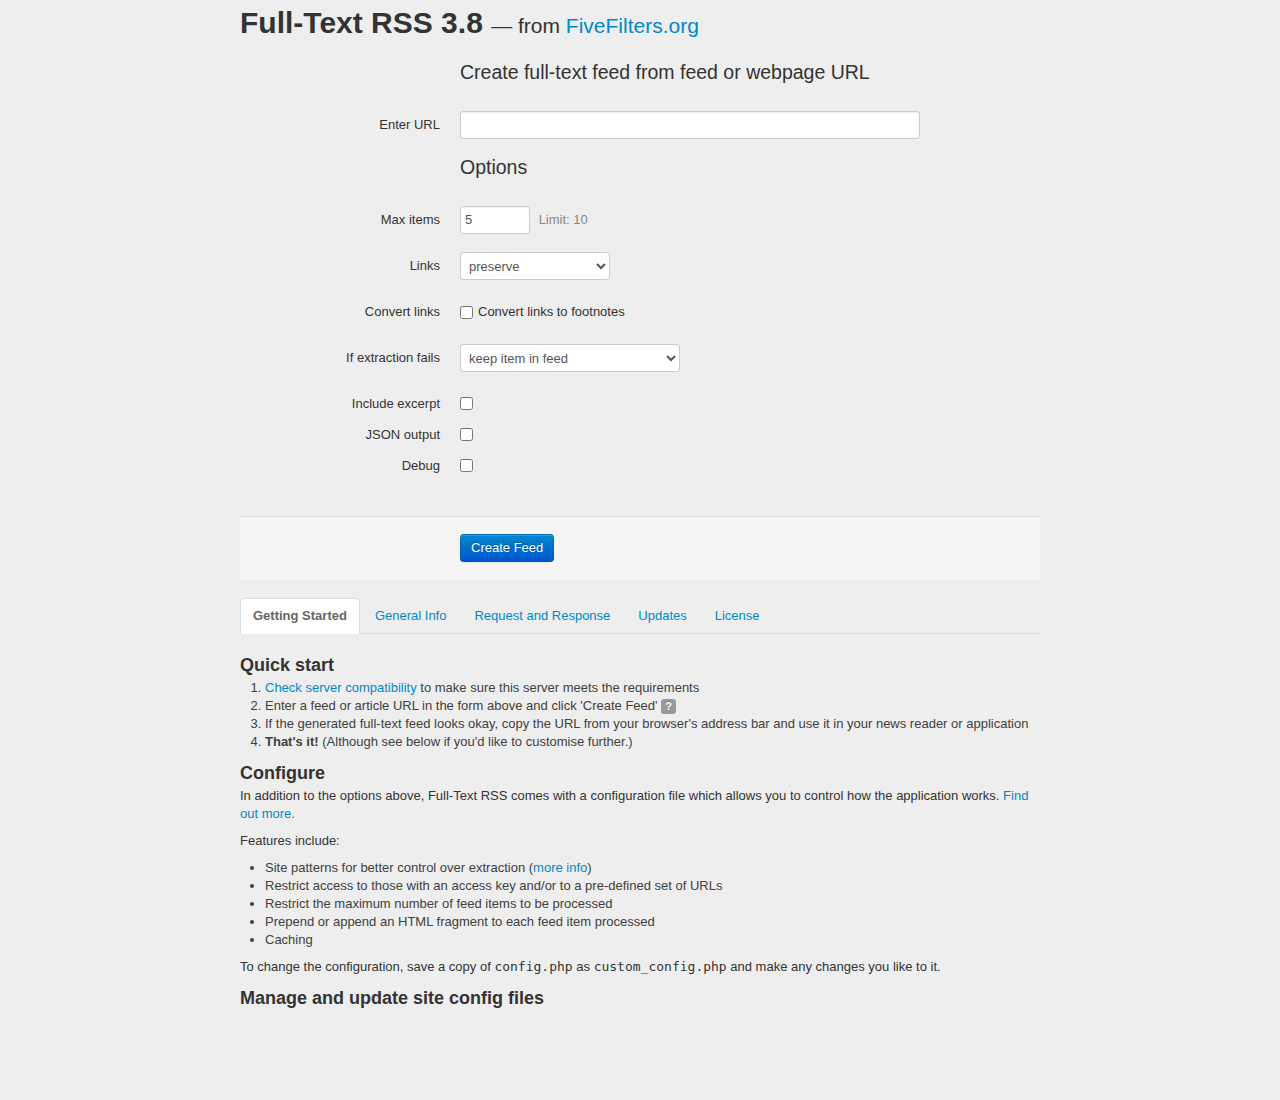
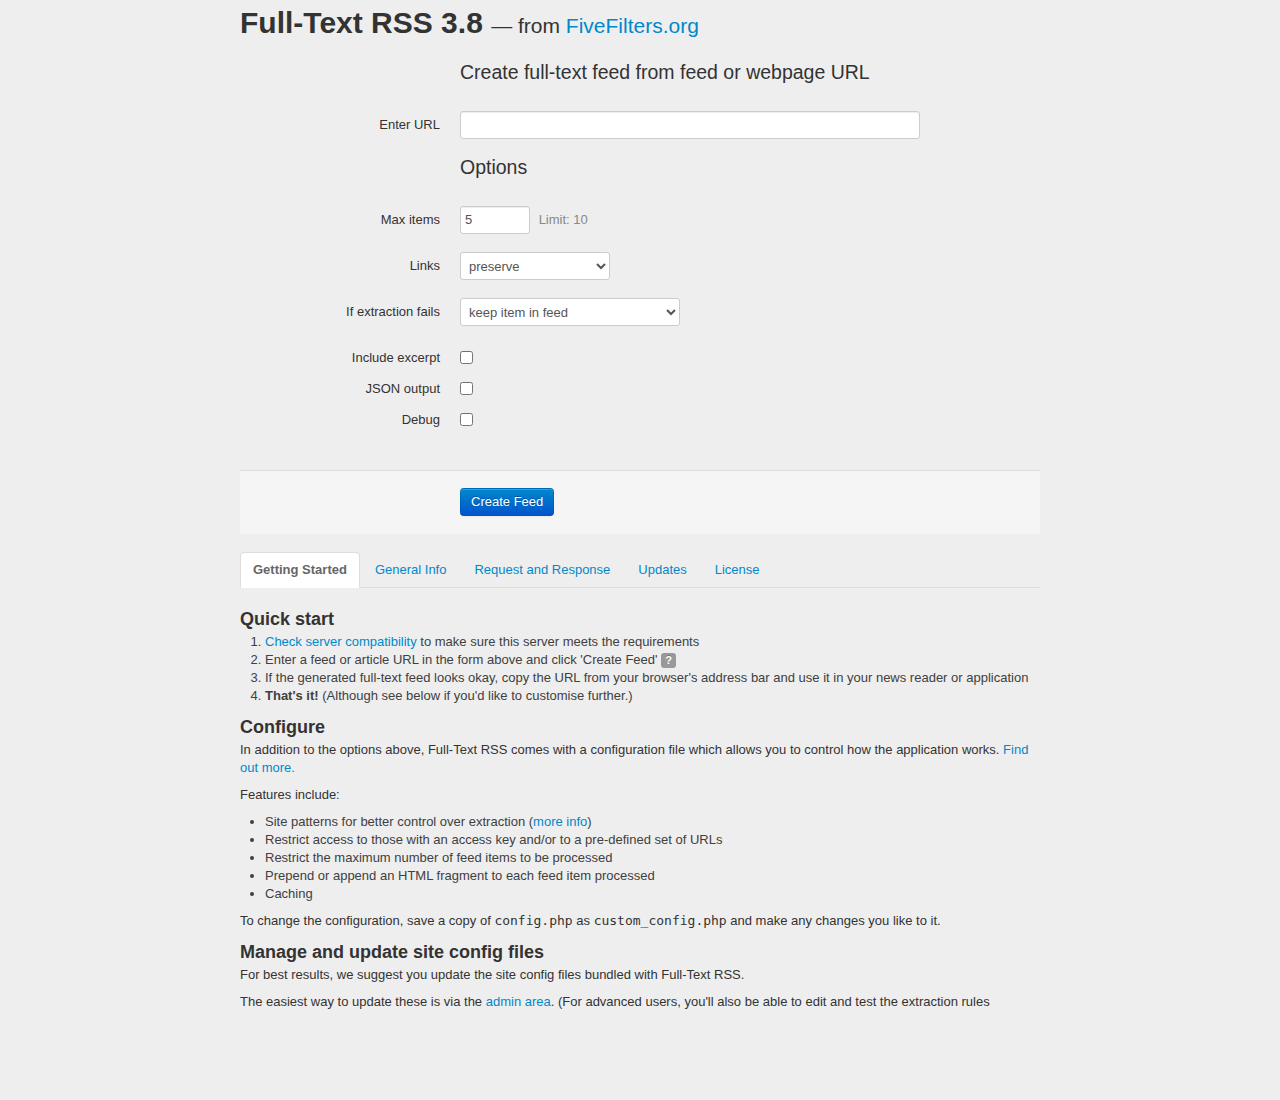
Always rewrite item links via this FTR instance; remove footnotes checkbox
Agent-Logs-Url: https://github.com/csm10495/agent-sandbox/sessions/a2e20d53-86a2-45f0-91a5-597cf4171c96

diff --git a/full-text-rss/makefulltextfeed.php b/full-text-rss/makefulltextfeed.php
@@ -714,9 +714,9 @@ foreach ($items as $key => $item) {
 	$newitem = $output->createNewItem();
 	$newitem->setTitle($feed_item_title);
 	if ($permalink !== false) {
-		$newitem->setLink($permalink);
+		$newitem->setLink(proxy_item_url($permalink));
 	} else {
-		$newitem->setLink($item->get_permalink());
+		$newitem->setLink(proxy_item_url($item->get_permalink()));
 	}
 	// Status codes to accept (200 range)
 	// Some sites might return correct content with error status codes
@@ -1087,7 +1087,7 @@ foreach ($items as $key => $item) {
 		//http://www.siasat.pk/forum/showthread.php?108883-Pakistan-Chowk-by-Rana-Mubashir-–-25th-March-2012-Special-Program-from-Liari-(Karachi)
 		//temporary measure: use utf8_encode()
 		$newitem->addElement('dc:identifier', remove_url_cruft(utf8_encode($effective_url)));
-		if ($favour_effective_url) $newitem->setLink(remove_url_cruft(utf8_encode($effective_url)));
+		if ($favour_effective_url) $newitem->setLink(proxy_item_url(remove_url_cruft(utf8_encode($effective_url))));
 	} else {
 		$newitem->addElement('dc:identifier', remove_url_cruft($item->get_permalink()));
 	}
@@ -1193,6 +1193,37 @@ if (!$debug_mode) {
 ///////////////////////////////
 // HELPER FUNCTIONS
 ///////////////////////////////
+
+// Rewrite an article URL so it points back through this Full-Text RSS instance.
+// This means that when a user clicks the link in their RSS reader, they get the
+// full-text version of the article served by this app rather than the original
+// (often partial) page. This is applied unconditionally to every feed item's
+// <link>. If the URL is empty or already points to this instance, it is
+// returned unchanged to avoid recursion.
+function proxy_item_url($item_url) {
+	global $options;
+	if (!is_string($item_url) || $item_url === '') return $item_url;
+	$scheme = (is_ssl()) ? 'https://' : 'http://';
+	$host = isset($_SERVER['HTTP_HOST']) ? $_SERVER['HTTP_HOST'] : '';
+	$path = isset($_SERVER['SCRIPT_NAME']) ? rtrim(dirname($_SERVER['SCRIPT_NAME']), '/\\') : '';
+	if ($host === '') return $item_url;
+	$base = $scheme.$host.$path.'/makefulltextfeed.php';
+	// Avoid infinite recursion: if the URL already targets this instance, leave it alone.
+	if (stripos($item_url, $scheme.$host.$path.'/makefulltextfeed.php') === 0) return $item_url;
+	$_qs_url = (strtolower(substr($item_url, 0, 7)) == 'http://') ? substr($item_url, 7) : $item_url;
+	$proxied = $base.'?url='.urlencode($_qs_url);
+	// If the user supplied the actual API key, pass key+per-item-hash so the
+	// proxied links can authenticate. If only key-index+hash was supplied we
+	// don't know the secret, so we leave auth off (proxied links will only
+	// work on instances that don't require a key).
+	if (isset($_GET['key']) && isset($options->api_keys) && is_array($options->api_keys)
+			&& ($key_index = array_search($_GET['key'], $options->api_keys)) !== false) {
+		$_hash = sha1($_GET['key'].$item_url);
+		$proxied .= '&key='.$key_index;
+		$proxied .= '&hash='.urlencode($_hash);
+	}
+	return $proxied;
+}
 
 function get_self_url() {
 	global $options, $url;

diff --git a/full-text-rss/index.php b/full-text-rss/index.php
@@ -26,11 +26,6 @@ if (!defined('_FF_FTR_INDEX')) {
 		$('#form').submit(function() {
 			$('#url').val($('#url').val().replace(/^http:\/\//i, ''));
 			$('#url').val($('#url').val().replace(/^https:\/\//i, 'sec://'));
-			// if "convert links to footnotes" checkbox is ticked,
-			// override the Links dropdown so links are converted to footnotes
-			if ($('#convert_links').is(':checked')) {
-				$('#links').val('footnotes');
-			}
 			return true;
 		});
 		// popovers
@@ -133,15 +128,6 @@ if (!defined('_FF_FTR_INDEX')) {
 		<option value="footnotes">add to footnotes</option>
 		<option value="remove">remove</option>
 	</select>
-	</div>
-	</div>
-	<div class="control-group">
-	<label class="control-label" for="convert_links">Convert links</label>
-	<div class="controls">
-		<label class="checkbox" for="convert_links" style="padding-top: 5px;">
-			<input type="checkbox" name="convert_links" id="convert_links" value="1" />
-			Convert links to footnotes
-		</label>
 	</div>
 	</div>
 	<?php if ($options->exclude_items_on_fail == 'user') { ?>

diff --git a/README.md b/README.md
@@ -1,19 +1,50 @@
 # agent-sandbox
 
 A patched copy of [FiveFilters Full-Text RSS](https://bitbucket.org/fivefilters/full-text-rss)
-with a small UI addition: a **"Convert links to footnotes"** checkbox on the
-main form (`index.php`). When ticked, the existing `links=footnotes` backend
-behaviour is used, so the change is purely client-side and requires no PHP
-changes.
+with one behaviour change:
+
+> **Every feed item's `<link>` is rewritten to point back through this Full-Text RSS instance.**
+>
+> So when a user clicks an article in their RSS reader, the click goes to
+> `http(s)://<this-host>/makefulltextfeed.php?url=<original-article-url>`
+> and they get the full-text version of the article served by this app
+> instead of the (often partial / paywalled / cluttered) original page.
+
+This is unconditional — there is no toggle. The UI itself is unchanged from
+upstream.
 
 ## Layout
 
 | Path | What it is |
 | --- | --- |
 | `full-text-rss/` | Full-Text RSS source, cloned from upstream Bitbucket and patched. |
-| `full-text-rss.patch` | Unified diff of every change applied on top of upstream. Currently only `index.php`. |
-| `docs/ui-screenshot.png` | Screenshot of the patched UI showing the new checkbox. |
+| `full-text-rss.patch` | Unified diff of every change applied on top of upstream. Currently only `makefulltextfeed.php`. |
+| `docs/ui-screenshot.png` | Screenshot of the UI as served by the Docker container. |
 | `Dockerfile` | Container image (modeled on [`heussd/fivefilters-full-text-rss-docker`](https://github.com/heussd/fivefilters-full-text-rss-docker)) that serves the patched FTR. |
+
+## How the rewrite works
+
+In `makefulltextfeed.php`:
+
+* A new helper `proxy_item_url($item_url)` builds
+  `<scheme>://<host><script-dir>/makefulltextfeed.php?url=<urlencoded original URL>`
+  using `$_SERVER['HTTP_HOST']` and `$_SERVER['SCRIPT_NAME']`, the same way
+  the existing `get_self_url()` does.
+* The three `setLink(...)` calls in the per-item loop are wrapped in
+  `proxy_item_url(...)` so the rewrite applies whether the original link
+  comes from `$permalink`, the SimplePie permalink, or `$effective_url`
+  (when `favour_effective_url` is enabled).
+* **Recursion-safe:** if the URL already starts with this instance's
+  `makefulltextfeed.php` URL it is returned unchanged, so an FTR feed
+  consumed by another FTR instance won't get double-wrapped.
+* **Auth-aware:** if the caller supplied the actual API key, the proxied
+  links include `key=<index>&hash=<sha1(key.url)>` so they pass auth on
+  this instance. If only `key-index + hash` was supplied (the secret
+  isn't known to us), the proxied links omit auth.
+
+The channel-level `<link>` (and the channel image's `<link>`) are
+intentionally **not** rewritten — those describe the source feed, not
+articles a user would click.
 
 ## Upstream baseline
 
@@ -25,11 +56,11 @@ To re-create / verify the patch:
 
 ```sh
 git clone https://bitbucket.org/fivefilters/full-text-rss.git /tmp/ftr-upstream
-diff -urN --label a/index.php --label b/index.php \
-    /tmp/ftr-upstream/index.php full-text-rss/index.php
+diff -urN --label a/makefulltextfeed.php --label b/makefulltextfeed.php \
+    /tmp/ftr-upstream/makefulltextfeed.php full-text-rss/makefulltextfeed.php
 ```
 
-## Building the Docker image
+## Building and running
 
 ```sh
 docker build -t ftr-patched .
@@ -37,21 +68,23 @@ docker run --rm -p 8080:80 ftr-patched
 # then open http://localhost:8080/
 ```
 
-## Verifying the feature
+## End-to-end verification
 
-The form is a `GET` to `makefulltextfeed.php`, and our checkbox JS rewrites the
-`links` field to `footnotes` on submit. So ticking the checkbox is equivalent
-to calling:
+Against CNN's public RSS feed:
 
 ```sh
-curl 'http://localhost:8080/makefulltextfeed.php?url=<ARTICLE_URL>&links=footnotes'
+curl 'http://localhost:8080/makefulltextfeed.php?url=rss.cnn.com/rss/edition.rss&max=3' \
+    | grep -oE '<link>[^<]+</link>'
 ```
 
-Verified against a live BBC News article: with `links=preserve` the body has
-inline `<a>` tags only; with `links=footnotes` the inline links are replaced
-with `[1]`, `[2]`, … markers and a `<h3>References</h3>` `<ol>` is appended
-to the article.
+Result: every `<item><link>` is rewritten to
+`http://localhost:8080/makefulltextfeed.php?url=<encoded-original-url>`,
+while the channel's own `<link>` (CNN homepage) is left untouched.
+
+Clicking a rewritten link returns a single-item feed whose item link is the
+*same* proxied URL — confirming the recursion guard works (no double
+`url=...?url=...` wrapping).
 
 ## Screenshot
 
-![UI with new checkbox](docs/ui-screenshot.png)
+![FTR UI as served by the container](docs/ui-screenshot.png)
